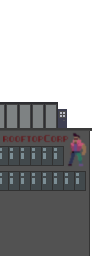
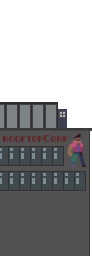
Removed unnecessary arrays
Buildings, enemies and fireballs were all being stored in their own arrays unnecessarily, a remnant from earlier versions

Slightly edited start building sprite

Changed region(s): [[0.7391, 0.5, 0.9348, 0.6562]]

diff --git a/app/src/main/assets/building.js b/app/src/main/assets/building.js
@@ -13,17 +13,16 @@ class Building extends Entity {
                 -720 / canvas.width,
                 new Rect(canvas.width * 1.5, Math.random() * canvas.height * 0.4 + (canvas.height * 0.25), canvas.width * randomBuilding.width, canvas.height),
                 new Sprite(randomBuilding.sprite, randomBuilding.sprite.width, 256, 0, -canvas.height, 1, 2, 0, 0, false));
-            buildings.push(newBuilding);
 
             // Occasionally spawn an enemy on top of the building
             if (newBuilding.rect.width > canvas.width * 0.4 && Math.random() > 0.55) {
-                enemies.push(new Enemy(
+                new Enemy(
                     -720 / canvas.width,
                     new Rect(newBuilding.rect.x + newBuilding.rect.width * 0.75 - canvas.width * 0.075, newBuilding.rect.y - canvas.width * 0.275, canvas.width * 0.15, canvas.width * 0.275),
                     new Sprite(enemyIdle, 36, 36, -30, 0, 1.8, 1, 150, 4, true),
                     new Sprite(enemyAttack, 36, 36, -30, 0, 1.8, 1, 100, 6, false),
                     new Sprite(enemyDeath, 36, 36, -30, 0, 1.8, 1, 100, 6, false)
-                ));
+                );
             }
             // Rarely, a powerup is spawned above and to the right of a building
             if (Math.random() > 0.9) {
@@ -56,10 +55,5 @@ class Building extends Entity {
         else if (random > 0.1)
             return { sprite: building48c, width: 0.85 };
         return { sprite: building48d, width: 0.85 };
-    }
-
-    destroy() {
-        super.toDestroy = true;
-        removeFromArray(buildings, this);
     }
 }

diff --git a/app/src/main/assets/player.js b/app/src/main/assets/player.js
@@ -27,8 +27,9 @@ class Player extends Entity {
 
         this.isGrounded = false;
         // Cycle through all buildings and check if the player should be grounded
-        for (var i = 0; i < buildings.length; i++) {
-            var building = buildings[i];
+        for (var i = 0; i < entities.length; i++) {
+            if (getType(entities[i]) == "Building");
+            let building = entities[i];
 
             // Check if the player is directly above a building and falling
             if (this.rect.y + this.rect.height < building.rect.y + 50 &&
@@ -156,11 +157,11 @@ class Player extends Entity {
             this.attackCooldownTimer = player.attackCooldown;
             playerAttackSFX.pause();
             playerAttackSFX.play();
-            fireballs.push(new Fireball(
+            new Fireball(
                 1728 / canvas.width,
                 new Rect(this.rect.x + this.rect.width * 0.65, this.rect.y + this.rect.height * 0.2, canvas.width * 0.16, canvas.width * 0.16),
                 new Sprite(fireballSprite, 64, 64, 0, 0, 1, 1, 80, 6, true)
-            ));
+            );
         }
     }
 

diff --git a/app/src/main/assets/main.js b/app/src/main/assets/main.js
@@ -57,12 +57,8 @@ var buildingGap;
 var scene;
 var gameLoopInterval;
 
-var player;
-var enemies = [];
-var fireballs = [];
-var buildings = [];
-
 var entities = [];
+var player;
 
 function init() {
     ctx.imageSmoothingEnabled = false; // Ensures sprites are not drawn blurry
@@ -84,19 +80,12 @@ function init() {
 }
 
 function resetEntities() {
-    player = null;
-
-    enemies = [];
-    fireballs = [];
-    buildings = [];
-
     entities = [];
+    player = null;
 }
 
 function startGame() {
     resetEntities();
-    avgDeltaTime = 0;
-    counter = 0;
 
     score = 0;
 
@@ -131,7 +120,6 @@ function startGame() {
         new Sprite(buildingStart, 90, 256, 0, -canvas.height, 1, 2, 0, 0, false)
     );
     startBuilding.setDrawOrder(105);
-    buildings.push(startBuilding);
 
     music.play();
 }

diff --git a/app/src/main/assets/enemy.js b/app/src/main/assets/enemy.js
@@ -35,9 +35,4 @@ class Enemy extends Entity {
             this.setSprite("idle");
         }
     }
-
-    destroy() {
-        super.toDestroy = true;
-        removeFromArray(enemies, this);
-    }
 }

diff --git a/app/src/main/assets/fireball.js b/app/src/main/assets/fireball.js
@@ -27,9 +27,4 @@ class Fireball extends Entity {
             }
         }
     }
-
-    destroy() {
-        super.toDestroy = true;
-        removeFromArray(fireballs, this);
-    }
 }
